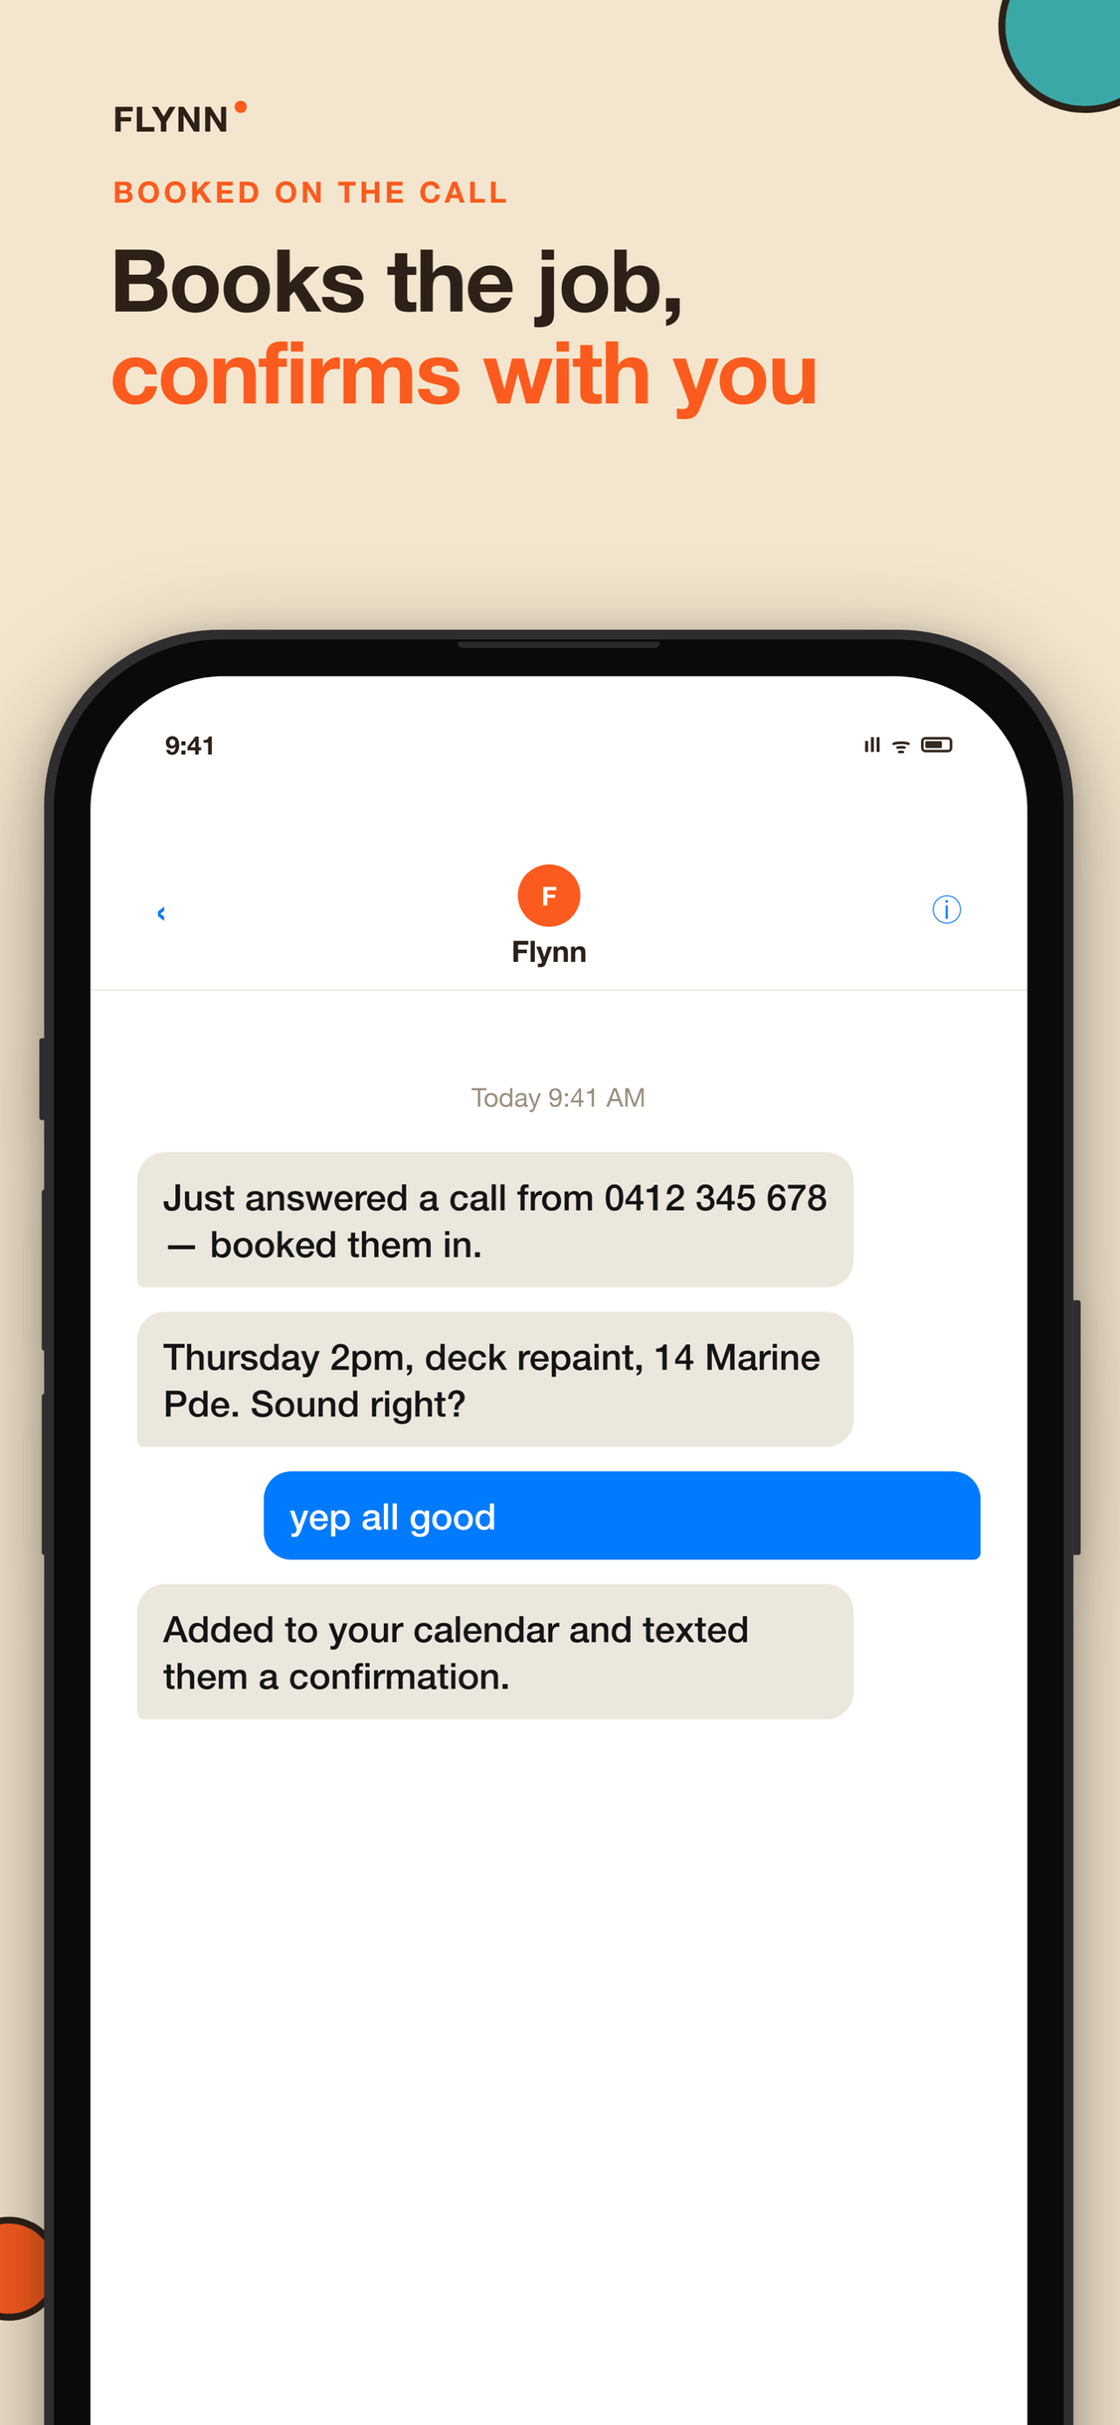
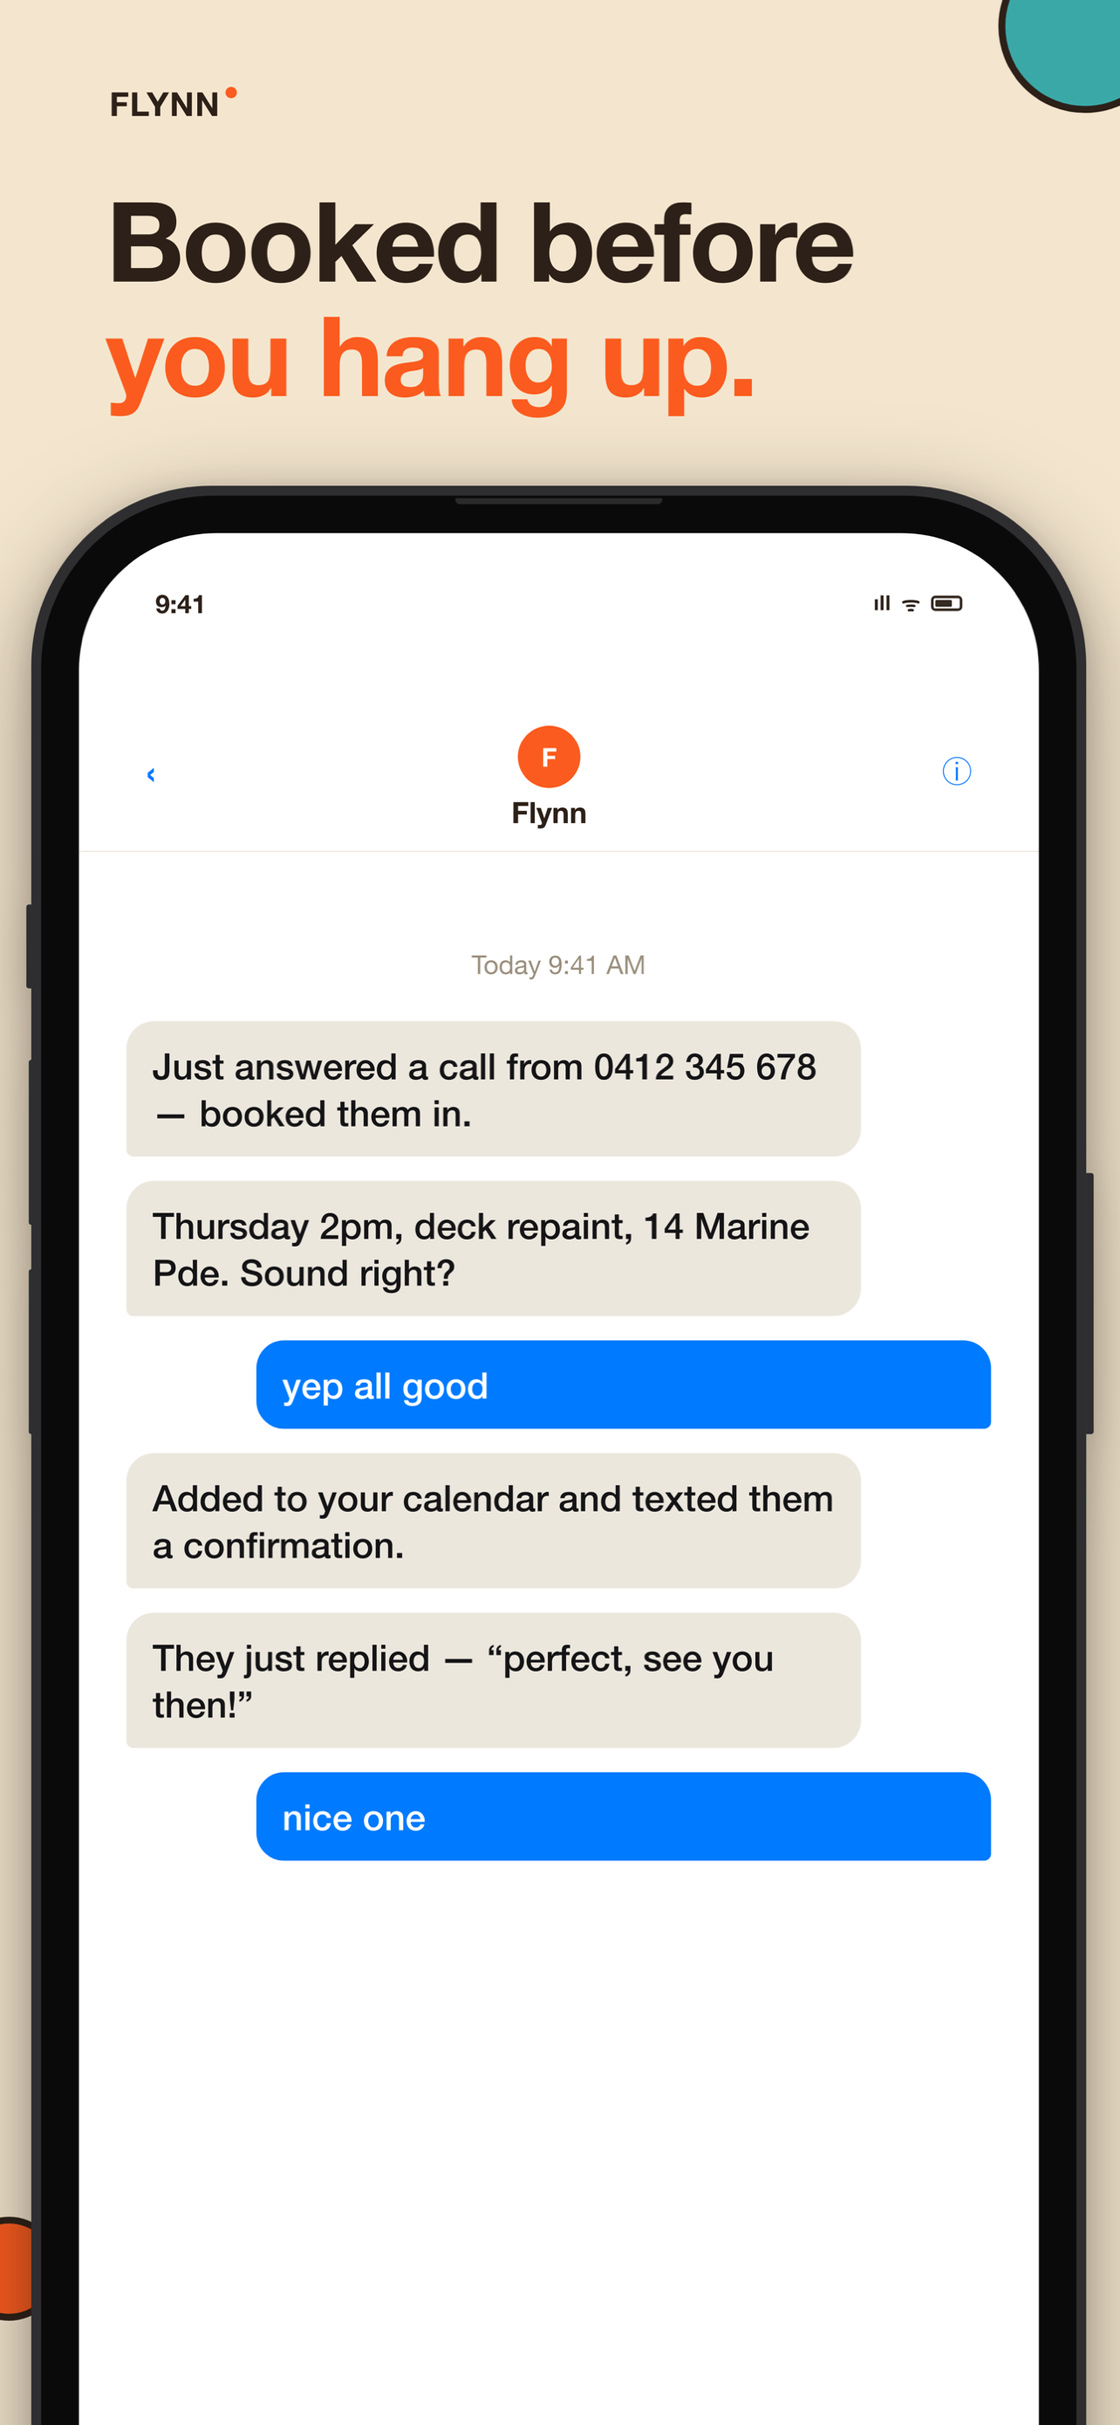
Landing page: reactive scroll + a live hero, not a static phone screenshot
The hero visual was one flat PNG (public/phone/hero-call.png), and the
page's entire "animation" was a single fade-up-on-scroll-into-view effect
repeated on every section — no scroll-linked motion anywhere.

Replaces the static phone image with HeroMoment: a looping "watch Flynn
work" card that cycles through the real product loop (answer -> book ->
text) on its own timer and floats continuously, styled as a brand card
(ink border, offset shadow) with two peeking cards behind it for depth.
First pass used AnimatePresence mode="wait", which silently got stuck at
its initial (invisible) state in production — replaced with a plain keyed
motion.div, which reliably replays initial->animate on each mount.

Motifs (the decorative circles on every section) now read actual scroll
position via useScroll/useTransform and drift at different rates per
circle — the "reactive scrolling" ask. Added a thin scroll-progress bar
pinned to the top of the viewport, visible from the first pixel of scroll.

Also fixed two stale copy issues surfaced while in this file: the hero's
small "Sounds like a real person · 7 day free trial · AU & NZ" line was
the same headline+fragmented-subtext pattern flagged on the App Store
screenshots — removed rather than patched. And "Message Flynn directly on
iMessage or SMS" still referenced the iMessage relay deleted in Gate 5.3 —
now SMS-only, matching PhoneSignupChat.tsx/MessageFlynnCTA.tsx's earlier
fix.
[…]

diff --git a/flynn-ai-new-landingpage/components/LandingPage.tsx b/flynn-ai-new-landingpage/components/LandingPage.tsx
@@ -1,5 +1,5 @@
-import React, { useState } from 'react';
-import { motion } from 'framer-motion';
+import React, { useState, useEffect, useRef } from 'react';
+import { motion, useScroll, useTransform } from 'framer-motion';
 import StoreButtons from './StoreButtons';
 import CallMeBackWidget from './CallMeBackWidget';
 import AppShowcase from './AppShowcase';
@@ -28,23 +28,104 @@ const Reveal = ({ children, delay = 0, className = '' }: any) => (
     className={className}>{children}</motion.div>
 );
 
+/** Scroll-linked vertical drift — the whole point of "reactive scrolling":
+ *  the decorative shapes on every section aren't static, they read the
+ *  page's own scroll position and move at different rates as it passes. */
 const Motifs = ({ variant = 0 }: { variant?: number }) => {
+  const ref = useRef<HTMLDivElement>(null);
+  const { scrollYProgress } = useScroll({ target: ref, offset: ['start end', 'end start'] });
+  const yFast = useTransform(scrollYProgress, [0, 1], [-64, 64]);
+  const ySlow = useTransform(scrollYProgress, [0, 1], [-26, 26]);
   const sets = [
     <>
-      <span className="absolute top-[-80px] right-[-80px] w-[160px] h-[160px] rounded-full bg-[#3C8A86] border-[3px] border-[#2C2018]" />
-      <span className="absolute bottom-[-104px] right-[-104px] w-[208px] h-[208px] rounded-full bg-[#E0A436] border-[3px] border-[#2C2018]" />
-      <span className="absolute bottom-[-28px] left-[-28px] w-[56px] h-[56px] rounded-full bg-[#FB5B1E] border-[3px] border-[#2C2018]" />
+      <motion.span style={{ y: yFast }} className="absolute top-[-80px] right-[-80px] w-[160px] h-[160px] rounded-full bg-[#3C8A86] border-[3px] border-[#2C2018]" />
+      <motion.span style={{ y: ySlow }} className="absolute bottom-[-104px] right-[-104px] w-[208px] h-[208px] rounded-full bg-[#E0A436] border-[3px] border-[#2C2018]" />
+      <motion.span style={{ y: yFast }} className="absolute bottom-[-28px] left-[-28px] w-[56px] h-[56px] rounded-full bg-[#FB5B1E] border-[3px] border-[#2C2018]" />
     </>,
     <>
-      <span className="absolute top-[15%] right-[-88px] w-[176px] h-[176px] rounded-full bg-[#C5532B] border-[3px] border-[#2C2018]" />
-      <span className="absolute bottom-[-112px] right-[-112px] w-[224px] h-[224px] rounded-full bg-[#7E8B4F] border-[3px] border-[#2C2018]" />
+      <motion.span style={{ y: ySlow }} className="absolute top-[15%] right-[-88px] w-[176px] h-[176px] rounded-full bg-[#C5532B] border-[3px] border-[#2C2018]" />
+      <motion.span style={{ y: yFast }} className="absolute bottom-[-112px] right-[-112px] w-[224px] h-[224px] rounded-full bg-[#7E8B4F] border-[3px] border-[#2C2018]" />
     </>,
     <>
-      <span className="absolute top-[35%] left-[-120px] w-[240px] h-[240px] rounded-full bg-[#3C8A86] border-[3px] border-[#2C2018]" />
-      <span className="absolute bottom-[-48px] right-[-48px] w-[96px] h-[96px] rounded-full bg-[#E0A436] border-[3px] border-[#2C2018]" />
+      <motion.span style={{ y: yFast }} className="absolute top-[35%] left-[-120px] w-[240px] h-[240px] rounded-full bg-[#3C8A86] border-[3px] border-[#2C2018]" />
+      <motion.span style={{ y: ySlow }} className="absolute bottom-[-48px] right-[-48px] w-[96px] h-[96px] rounded-full bg-[#E0A436] border-[3px] border-[#2C2018]" />
     </>,
   ];
-  return <div className="absolute inset-0 overflow-hidden pointer-events-none opacity-75">{sets[variant % sets.length]}</div>;
+  return <div ref={ref} className="absolute inset-0 overflow-hidden pointer-events-none opacity-75">{sets[variant % sets.length]}</div>;
+};
+
+/** A thin fill bar pinned to the very top of the viewport, tracking overall
+ *  scroll progress — the page visibly "responds" to scroll from the first
+ *  pixel, not just individual sections fading in. */
+const ScrollProgressBar = () => {
+  const { scrollYProgress } = useScroll();
+  return (
+    <motion.div
+      style={{ scaleX: scrollYProgress }}
+      className="fixed top-0 left-0 right-0 h-[3px] bg-[#FB5B1E] origin-left z-[70]"
+    />
+  );
+};
+
+/** The hero visual. Replaces a single static phone screenshot with a live,
+ *  looping "watch Flynn work" card — it never sits still, cycling through
+ *  the actual product loop (answer → book → text) on its own, and floats
+ *  gently the whole time. This is the thing that should read as alive
+ *  rather than a flat marketing photo. */
+const HERO_BEATS = [
+  { icon: '📞', eyebrow: 'Incoming call', title: 'Answering…', sub: 'Sounds like a real person, not a menu' },
+  { icon: '🗓', eyebrow: 'Job booked', title: 'Thu · 9:00am', sub: 'Straight into the calendar, no back-and-forth' },
+  { icon: '💬', eyebrow: 'Client texted', title: "You're all booked in", sub: 'Booking link sent automatically' },
+];
+
+const HeroMoment = () => {
+  const [beat, setBeat] = useState(0);
+  useEffect(() => {
+    const id = setInterval(() => setBeat((b) => (b + 1) % HERO_BEATS.length), 2700);
+    return () => clearInterval(id);
+  }, []);
+  const current = HERO_BEATS[beat];
+  return (
+    <motion.div
+      animate={{ y: [0, -12, 0] }}
+      transition={{ duration: 4.5, repeat: Infinity, ease: 'easeInOut' }}
+      className="relative w-full max-w-[420px]"
+    >
+      <div className="relative bg-[#FFFBF4] border-[3px] border-[#2C2018] rounded-[32px] p-6 sm:p-7 shadow-[10px_10px_0_0_#2C2018]">
+        <div className="flex items-center justify-between mb-6">
+          <div className="flex items-center gap-2">
+            <span className="relative flex h-2.5 w-2.5">
+              <span className="animate-ping absolute inline-flex h-full w-full rounded-full bg-[#FB5B1E] opacity-75" />
+              <span className="relative inline-flex rounded-full h-2.5 w-2.5 bg-[#FB5B1E]" />
+            </span>
+            <span className="font-display font-bold text-xs uppercase tracking-[0.14em] text-[#8C7B6A]">Flynn, live</span>
+          </div>
+          <img src="/mascots/mark.png" className="w-9 h-9" alt="" aria-hidden="true" draggable={false} />
+        </div>
+        <div className="min-h-[132px]">
+          <motion.div
+            key={beat}
+            initial={{ opacity: 0, y: 14 }}
+            animate={{ opacity: 1, y: 0 }}
+            transition={{ duration: 0.45, ease: [0.22, 1, 0.36, 1] }}
+          >
+            <span className="text-4xl leading-none">{current.icon}</span>
+            <p className="mt-3 font-display font-bold text-[13px] uppercase tracking-[0.1em] text-[#FB5B1E]">{current.eyebrow}</p>
+            <p className="mt-1 font-display font-bold text-3xl leading-tight">{current.title}</p>
+            <p className="mt-2 text-[#5A4A3C]">{current.sub}</p>
+          </motion.div>
+        </div>
+        <div className="flex gap-1.5 mt-6">
+          {HERO_BEATS.map((_, i) => (
+            <span key={i} className={`h-1.5 rounded-full transition-all duration-500 ${i === beat ? 'w-7 bg-[#FB5B1E]' : 'w-1.5 bg-[#2C2018]/15'}`} />
+          ))}
+        </div>
+      </div>
+      {/* Two smaller cards peeking out behind, for depth */}
+      <div className="absolute -z-10 -right-4 top-8 w-full h-full rounded-[32px] border-[3px] border-[#2C2018]/25 bg-[#E0A436]/25 rotate-3" />
+      <div className="absolute -z-20 -right-8 top-16 w-full h-full rounded-[32px] border-[3px] border-[#2C2018]/15 bg-[#3C8A86]/15 rotate-6" />
+    </motion.div>
+  );
 };
 
 const Starburst = ({ className = '' }: { className?: string }) => (
@@ -130,6 +211,7 @@ function FAQItem({ q, a }: { q: string; a: string }) {
 export default function LandingPage() {
   return (
     <div className="bg-[#F4E6CE] text-[#2C2018] overflow-hidden">
+      <ScrollProgressBar />
 
       {/* ===================== HERO ===================== */}
       <section className="relative">
@@ -142,7 +224,6 @@ export default function LandingPage() {
             <p className="mt-6 text-lg sm:text-xl text-[#5A4A3C] max-w-xl leading-relaxed">
               When you're on the tools, Flynn picks up — a receptionist that sounds like a real person, books the job, and texts the client back in seconds. Then it does the rest: the invoice with the photos on it, the pay link, and the chasing until the money lands.
             </p>
-            <p className="mt-5 text-sm font-medium text-[#8C7B6A]">Sounds like a real person · 7 day free trial · AU &amp; NZ</p>
             <div className="mt-7">
               <p className="font-display font-bold text-lg mb-3">Hear it for yourself, free:</p>
               <CallMeBackWidget />
@@ -155,7 +236,7 @@ export default function LandingPage() {
 
           <Reveal delay={0.1} className="relative flex flex-col items-center lg:items-end gap-4">
             <Starburst className="absolute -left-2 top-10 w-16 h-16 hidden sm:block" />
-            <img src="/phone/hero-call.png" alt="Flynn answering a call on the tradie's own phone, with a notification confirming the job was booked" className="w-full max-w-[443px] sm:max-w-[492px]" />
+            <HeroMoment />
           </Reveal>
         </div>
       </section>
@@ -181,7 +262,7 @@ export default function LandingPage() {
             <a href={FLYNN_SMS_LINK} className="font-semibold text-[#2C2018] hover:text-[#FB5B1E] transition-colors">
               Message Flynn directly
             </a>{' '}
-            on iMessage or SMS at {FLYNN_NUMBER_DISPLAY}.
+by text at {FLYNN_NUMBER_DISPLAY}.
           </p>
         </div>
       </section>

diff --git a/brand/app-store-screenshots/generate.js b/brand/app-store-screenshots/generate.js
@@ -174,10 +174,9 @@ function bookingsScreen() {
 // device's own rounded corners would just continue unseen past the edge).
 // That reads as an intentional, Apple-marketing-style crop instead of the
 // "chopped mid-content" look a fake crop window gave.
-const PHONE_W = 1200;
+const PHONE_W = 1230;
 const PHONE_LEFT = (1290 - PHONE_W) / 2;
-const PHONE_TOP = 726;
-const STATS_TOP = 500;
+const PHONE_TOP = 560;
 
 const before = fs.readFileSync(path.join(__dirname, '../../flynn-ai-new-landingpage/public/before.jpg')).toString('base64');
 const after = fs.readFileSync(path.join(__dirname, '../../flynn-ai-new-landingpage/public/after.jpg')).toString('base64');
@@ -189,20 +188,15 @@ const SHARED_CSS = `
     font-family:-apple-system,'Segoe UI',Roboto,'Helvetica Neue',Arial,sans-serif; color:${C.ink}; }
   .shapes { position:absolute; inset:0; z-index:0; }
   .sh { position:absolute; border:8px solid ${C.ink}; box-sizing:border-box; }
-  .wordmark { position:absolute; top:112px; left:130px; z-index:5; display:flex; align-items:flex-start; gap:6px; }
-  .wordmark .txt { font-weight:800; font-size:40px; letter-spacing:1px; color:${C.ink}; }
-  .wordmark .dot { width:14px; height:14px; border-radius:50%; background:${C.orange}; margin-top:4px; }
-  .eyebrow { position:absolute; top:200px; left:130px; z-index:5; color:${C.orange};
-    font-weight:800; font-size:34px; letter-spacing:4px; }
-  .headline { position:absolute; top:268px; left:126px; z-index:5; font-weight:800;
-    font-size:100px; line-height:106px; letter-spacing:-2px; }
+  .wordmark { position:absolute; top:96px; left:126px; z-index:5; display:flex; align-items:flex-start; gap:6px; }
+  .wordmark .txt { font-weight:800; font-size:38px; letter-spacing:1px; color:${C.ink}; }
+  .wordmark .dot { width:13px; height:13px; border-radius:50%; background:${C.orange}; margin-top:4px; }
+  /* One big statement, full stop — no eyebrow label, no stat pills underneath.
+     That eyebrow+headline+sub-line stack was the exact "AI slide" pattern:
+     a huge point should just BE the huge point. */
+  .headline { position:absolute; top:210px; left:122px; right:122px; z-index:5; font-weight:800;
+    font-size:128px; line-height:132px; letter-spacing:-3px; }
   .headline .o { color:${C.orange}; }
-
-  .stat-row { position:absolute; left:130px; right:130px; z-index:5; display:flex; flex-direction:column;
-    gap:18px; align-items:center; }
-  .stat-pill { background:${C.card}; border:3px solid ${C.ink}; border-radius:999px; padding:22px 34px;
-    font-weight:800; font-size:34px; display:flex; align-items:center; gap:14px; white-space:nowrap;
-    box-shadow:6px 6px 0 0 ${C.ink}; }
 
   /* screen content — all percentages are of the SCREEN box, not the phone */
   .status { position:absolute; top:2.6%; left:8%; right:8%; display:flex; align-items:center;
@@ -281,30 +275,25 @@ const SHARED_CSS = `
   .badge.green-b { background:#DDF3E5; color:#1E9E54; }
 `;
 
-function page({ variant, eyebrow, l1, l2, screenHtml, screenBg = '#fff', stats = [] }) {
+function page({ variant, headline, screenHtml, screenBg = '#fff' }) {
   const frame = iphoneFrame({ left: PHONE_LEFT, top: PHONE_TOP, width: PHONE_W, contentHtml: screenHtml, screenBg });
-  const statsRow = stats.length
-    ? `<div class="stat-row" style="top:${STATS_TOP}px">${stats.map((s) => `<div class="stat-pill">${s}</div>`).join('')}</div>`
-    : '';
 
   return `<!doctype html><html><head><meta charset="utf-8"><style>${SHARED_CSS}</style></head><body>
     <div class="shapes">${shapes(variant)}</div>
     <div class="wordmark"><span class="txt">FLYNN</span><span class="dot"></span></div>
-    <div class="eyebrow">${eyebrow}</div>
-    <div class="headline">${l1}<br><span class="o">${l2}</span></div>
-    ${statsRow}
+    <div class="headline">${headline}</div>
     ${frame.html}
   </body></html>`;
 }
 
+// One bold statement per slide — no eyebrow tag, no sub-line, no stat pills.
+// The old l1/l2 pattern ("Books the job," / "confirms with you") was a
+// headline-plus-explainer in miniature; this is a single thought each time.
 const pages = [
   {
     file: '01-hero',
     variant: 0,
-    eyebrow: 'NEVER MISS A JOB',
-    l1: 'Flynn answers',
-    l2: 'when you can’t',
-    stats: ['🎙 Sounds like a real person', '✅ Books the job on the call'],
+    headline: 'Never miss<br><span class="o">a job.</span>',
     screenBg: 'linear-gradient(160deg,#2b2320 0%,#171310 60%,#0d0b09 100%)',
     screenHtml: lockScreen({
       note: 'Booked the caller in for <b>Thursday 2pm</b> — deck repaint, 14 Marine Pde.',
@@ -313,9 +302,7 @@ const pages = [
   {
     file: '02-voice',
     variant: 1,
-    eyebrow: 'BOOKED ON THE CALL',
-    l1: 'Books the job,',
-    l2: 'confirms with you',
+    headline: 'Booked before<br><span class="o">you hang up.</span>',
     screenHtml: chatScreen({
       avatar: 'F',
       name: 'Flynn',
@@ -324,15 +311,15 @@ const pages = [
         { out: false, text: "Thursday 2pm, deck repaint, 14 Marine Pde. Sound right?" },
         { out: true, text: "yep all good" },
         { out: false, text: "Added to your calendar and texted them a confirmation." },
+        { out: false, text: "They just replied — “perfect, see you then!”" },
+        { out: true, text: "nice one" },
       ],
     }),
   },
   {
     file: '03-anyone',
     variant: 2,
-    eyebrow: 'PHOTO INVOICES',
-    l1: 'Invoices with',
-    l2: 'photos on them',
+    headline: 'Photo in.<br><span class="o">Invoice out.</span>',
     screenHtml: chatScreen({
       avatar: 'F',
       name: 'Flynn',
@@ -341,15 +328,15 @@ const pages = [
         { out: true, text: 'invoice Sarah $650 for the deck repaint' },
         { out: false, text: 'Invoice ready with photos. Sent to sarah@jenkins.com. View: flynnai.app/i/abc' },
         { out: false, text: 'Sarah just viewed the invoice.' },
+        { out: false, text: "I'll chase it automatically if it goes quiet — you don't have to." },
+        { out: true, text: 'legend' },
       ],
     }),
   },
   {
     file: '04-booking',
     variant: 3,
-    eyebrow: 'AUTO-CHASING',
-    l1: 'Chases it',
-    l2: 'till it’s paid',
+    headline: 'No more<br><span class="o">awkward texts.</span>',
     screenHtml: chatScreen({
       avatar: 'F',
       name: 'Flynn',
@@ -359,16 +346,14 @@ const pages = [
         { out: false, text: "Heads up — Dave's invoice is 3 days late. I've sent a friendly reminder." },
         { out: false, text: 'Dave just paid $340 via bank transfer.' },
         { out: true, text: 'awesome thanks' },
+        { out: false, text: "All sorted. On to the next one." },
       ],
     }),
   },
   {
     file: '05-brain',
     variant: 4,
-    eyebrow: 'ALL SORTED',
-    l1: 'Every job,',
-    l2: 'booked & tracked',
-    stats: ['📅 Every job in one place', '✓ Booked straight off the call'],
+    headline: 'Every job.<br><span class="o">Sorted.</span>',
     screenHtml: bookingsScreen(),
   },
 ];
